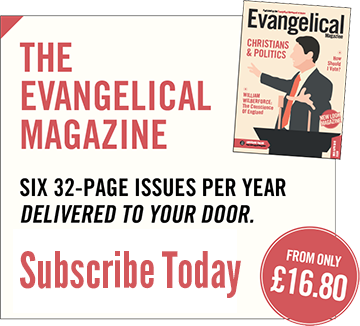
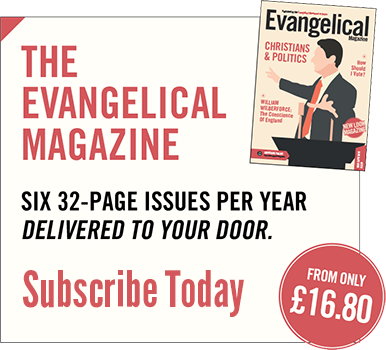
Popular articles widget.

diff --git a/style.css b/style.css
@@ -832,8 +832,55 @@ img.alignright,
 
 .sidebar .widget.widget_evangelical_magazine_subscribe {
     padding: 0;
-    margin-top: -16px;
+    margin-top: -17px;
     background-color: transparent;
+}
+
+.sidebar .widget.widget_evangelical_magazine_most_popular {
+    padding: 0;
+    font-family: Lato, sans-serif;
+}
+
+.widget.widget_evangelical_magazine_most_popular .widget-title {
+    padding: 10px 20px;
+    color: #FECA00;
+    background-color: #086788;
+    font-size: 30px; 
+    margin-bottom: 0;
+}
+
+.widget.widget_evangelical_magazine_most_popular .popular-article-cover {
+    background-position: center center;
+    background-size: cover;
+    width: 75px;
+    height: 75px;
+    margin: 0 10px 0 20px;
+    float: left;
+}
+
+.widget.widget_evangelical_magazine_most_popular .popular_article:first-child {
+    background-color: #086788;
+    color: white;
+    padding-bottom: 0;
+}
+
+.widget.widget_evangelical_magazine_most_popular .popular_article:first-child a {
+    color: white;
+}
+
+.widget.widget_evangelical_magazine_most_popular .popular_article:first-child .popular-article-cover {
+    width: 360px;
+    height: 240px;
+    margin: 0;
+}
+
+.widget.widget_evangelical_magazine_most_popular .article-info {
+    padding: 10px 20px 10px 0;
+    overflow: hidden;
+}
+
+.widget.widget_evangelical_magazine_most_popular .popular_article:first-child .article-info {
+    padding: 10px 20px 10px 20px;
 }
 
 /* ## Featured Content

diff --git a/classes/widgets.php b/classes/widgets.php
@@ -3,6 +3,7 @@ class evangelical_magazine_widgets {
 
     static function register_widgets() {
         register_widget('evangelical_magazine_subscribe');
+        register_widget('evangelical_magazine_most_popular');
     }    
 
 }
@@ -29,10 +30,37 @@ class evangelical_magazine_subscribe extends WP_Widget {
                 if (!empty($instance['title'])) {
                     echo $args['before_title'] . apply_filters( 'widget_title', $instance['title'] ). $args['after_title'];
                 }
-                echo "<a href=\"{$link_url}\"><div style=\"background-image:url('{$image_url}');width:360px;height:326px\"></div></a>";
+                echo "<a href=\"{$link_url}\"><div style=\"background-image:url('{$image_url}');width:386px;height:350px\"></div></a>";
                 echo $args['after_widget'];
             }
         }
     }
+}
     
+class evangelical_magazine_most_popular extends WP_Widget {
+    
+    function __construct() {
+        parent::__construct('evangelical_magazine_most_popular', 'Most Popular Articles', array ('description' => 'Outputs a list of the most popular articles.'));
+    }
+    
+    public function widget ($args, $instance) {
+        global $post;
+        $exclude = (isset($post->ID)) ? array($post->ID) : array();
+        $articles = evangelical_magazine_article::get_top_articles(5, $exclude);
+        if ($articles) {
+            shuffle($articles);
+            echo $args['before_widget'];
+            echo "{$args['before_title']}Other popular articles{$args['after_title']}";
+            echo "<ul>";
+            $size = 'width_400';
+            foreach ($articles as $article) {
+                echo "<li class=\"popular_article\">";
+                echo "<a href=\"{$article->get_link()}\"><div class=\"popular-article-cover\" style=\"background-image:url('{$article->get_image_url($size)}')\"></div></a>";
+                echo "<div class=\"article-info\">{$article->get_name(true)} by {$article->get_author_names(true)}</div></li>";
+                $size = 'thumbnail_75';
+            }
+            echo "</ul>";
+            echo $args['after_widget'];
+        }
+    }
 }
